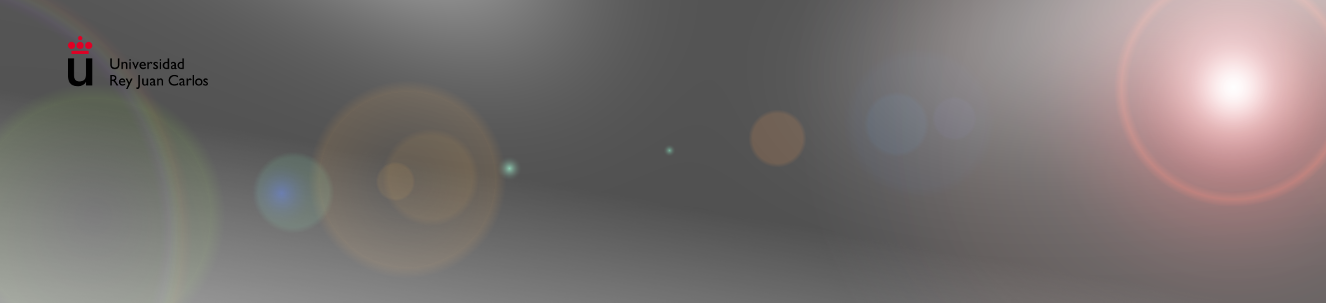
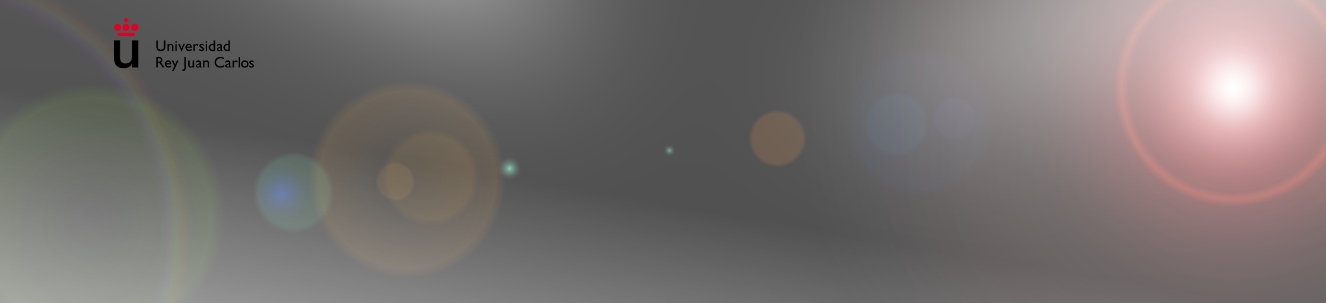
Modificada ligeramente la configuración de la imagen

Changed region(s): [[0.0309, 0.0594, 0.1855, 0.297]]

diff --git a/index.html b/index.html
@@ -34,7 +34,7 @@
 				</div>
 			<div class="buttons-row">
 		<!-- Example row of columns -->
-			<div class="container">
+			<!--div class="container"-->
 				<div class="row">
 
 					<div class="col-md-2 col-sm-4 col-xs-6">
@@ -107,7 +107,7 @@
 					  	</p>
 					</div>					
 				</div>
-			</div>
+			<!--/div-->
 		</div>
 					
 				</div>

diff --git a/additional-styles.css b/additional-styles.css
@@ -21,7 +21,7 @@
   margin-top: 5px;
   padding-top: 85px;
   color: antiquewhite; 
-  background: url(./images/jumbotron-bg.png) center;
+  background: url(./images/jumbotron-bg.png) left;
   background-repeat: no-repeat;
   -webkit-background-size: cover;
   -moz-background-size: cover;
